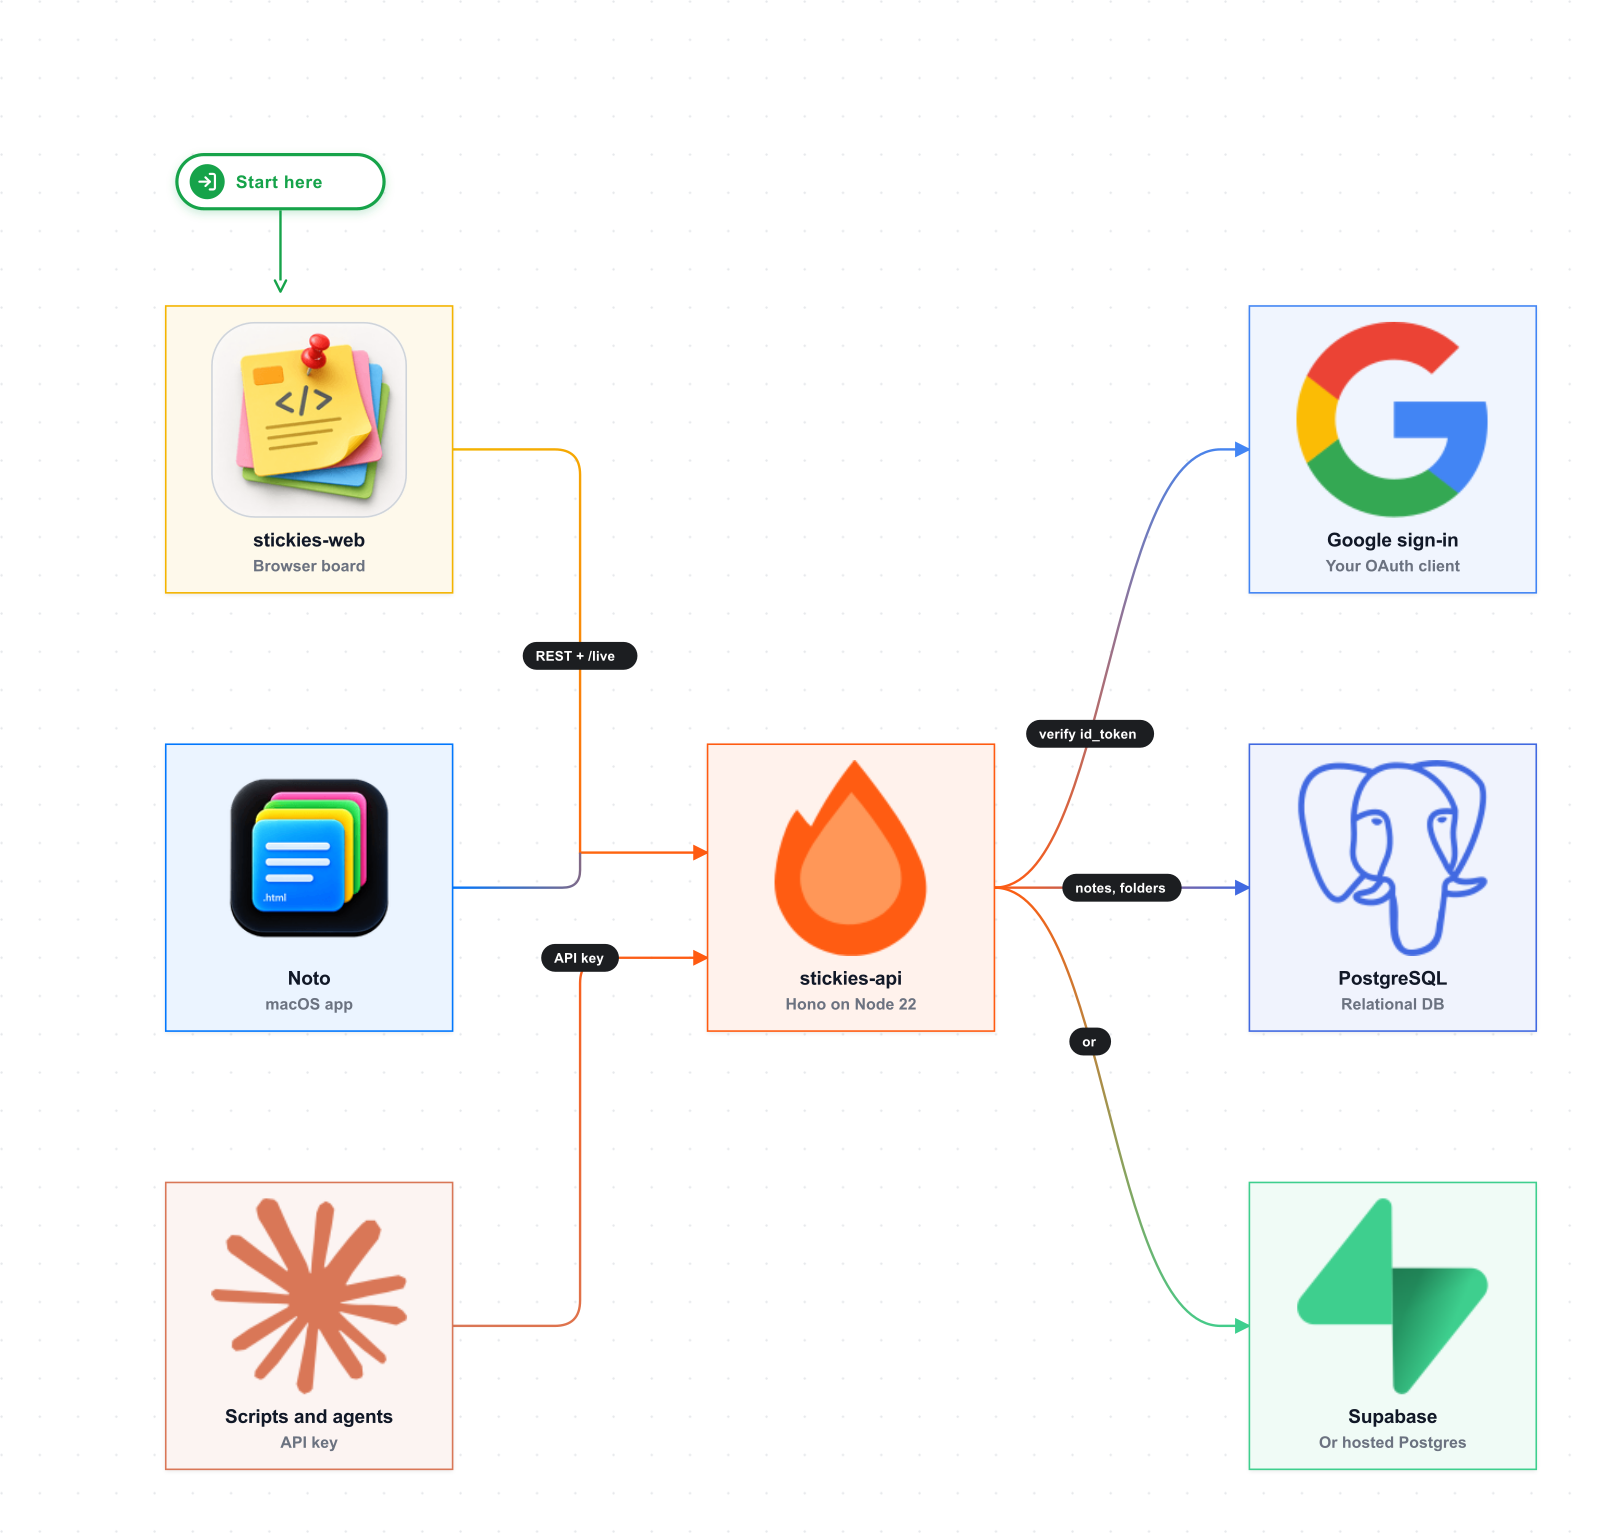
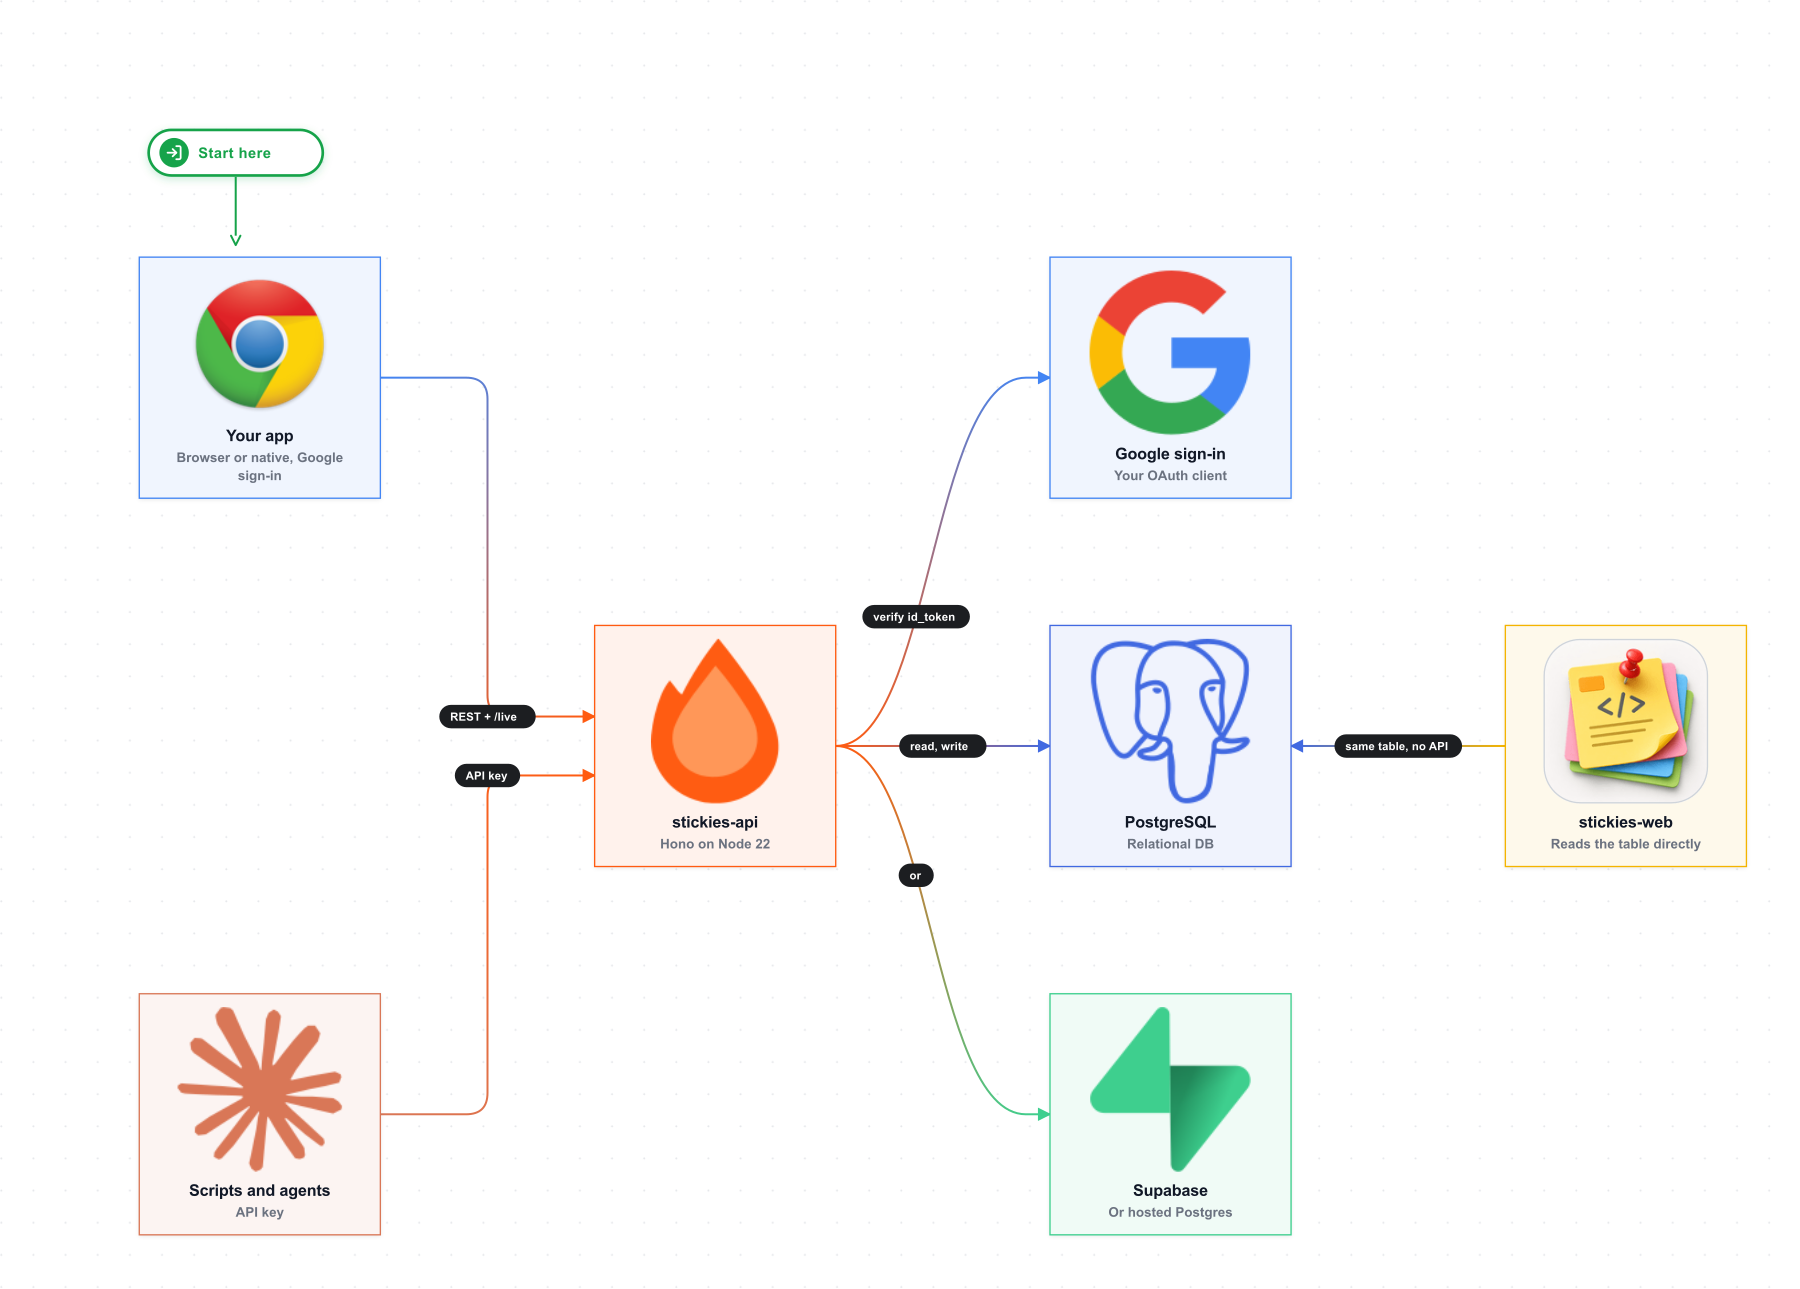
docs: architecture diagram matches how the apps connect today

diff --git a/README.md b/README.md
@@ -13,9 +13,9 @@ The HTTP API behind Stickies: notes, folders, sharing and live updates, in 1 sma
 
 ## How it fits
 
-[![How stickies-api fits: stickies-web, Noto and agents call the API, which uses Google sign-in and Postgres or Supabase](docs/screenshots/architecture.png)](https://flows-bheng.vercel.app/?id=f5fbca56-c899-42ad-8fd0-55caf6f09d8d)
+[![How stickies-api fits: your app and your scripts call the API, which uses Google sign-in and Postgres or Supabase; stickies-web reads the same table directly](docs/screenshots/architecture.png)](https://flows-bheng.vercel.app/?id=202e3e12-f2de-429a-ada9-d0379e48ac30)
 
-Every client signs in the same way: Google sign-in, then the API issues a 15-minute access token and a 60-day refresh token. Scripts use an API key instead. When any client changes a note, the rest see it instantly over `/live`.
+Your app signs in with Google, then the API issues a 15-minute access token and a 60-day refresh token. Scripts use an API key instead. When any client changes a note, the rest see it instantly over `/live`. [stickies-web](https://github.com/bunlongheng/stickies-web) skips the API and reads the same `stickies` table straight from Postgres.
 
 ## Features
 
@@ -69,8 +69,8 @@ Optional integrations (AI, Philips Hue, GitHub backup) are listed in `.env.examp
 
 | Repo | What it is |
 |---|---|
-| [stickies-web](https://github.com/bunlongheng/stickies-web) | The web client: the whole board in the browser |
-| [noto](https://github.com/bunlongheng/noto) | A fast macOS app onto every note, in Swift |
+| [stickies-web](https://github.com/bunlongheng/stickies-web) | The web client: the whole board in the browser, reading Postgres directly |
+| [noto](https://github.com/bunlongheng/noto) | A fast macOS app onto every note, in Swift (talks to the Stickies app, not this API) |
 | [quick-stick-lite](https://github.com/bunlongheng/quick-stick-lite) | A sticky-note grid in 1 file, no build |
 
 
